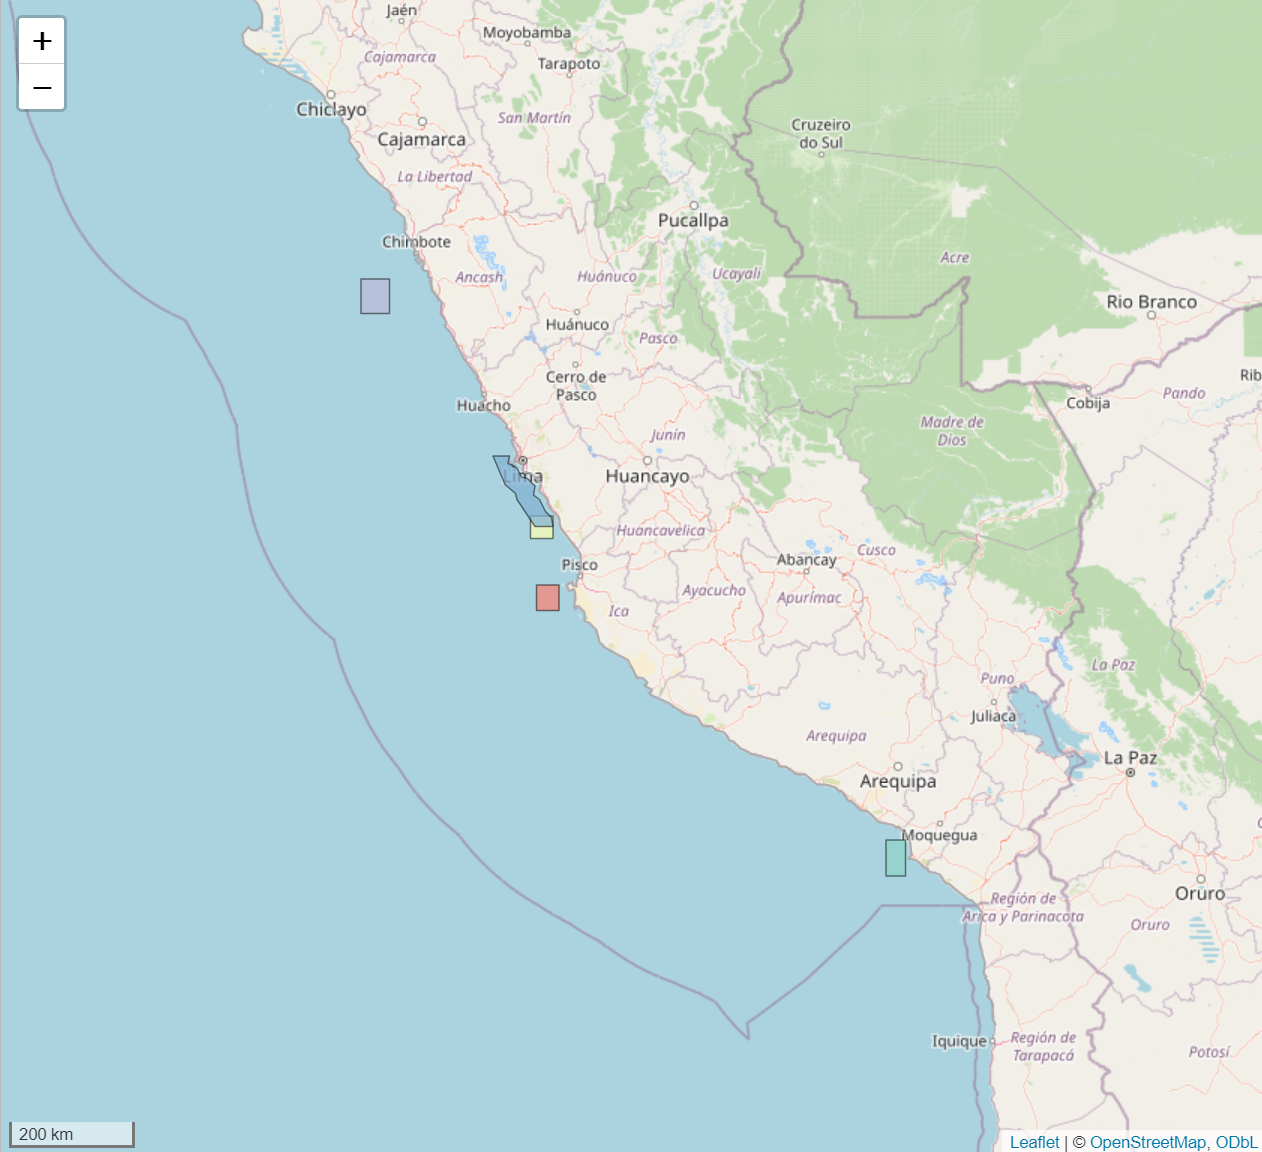
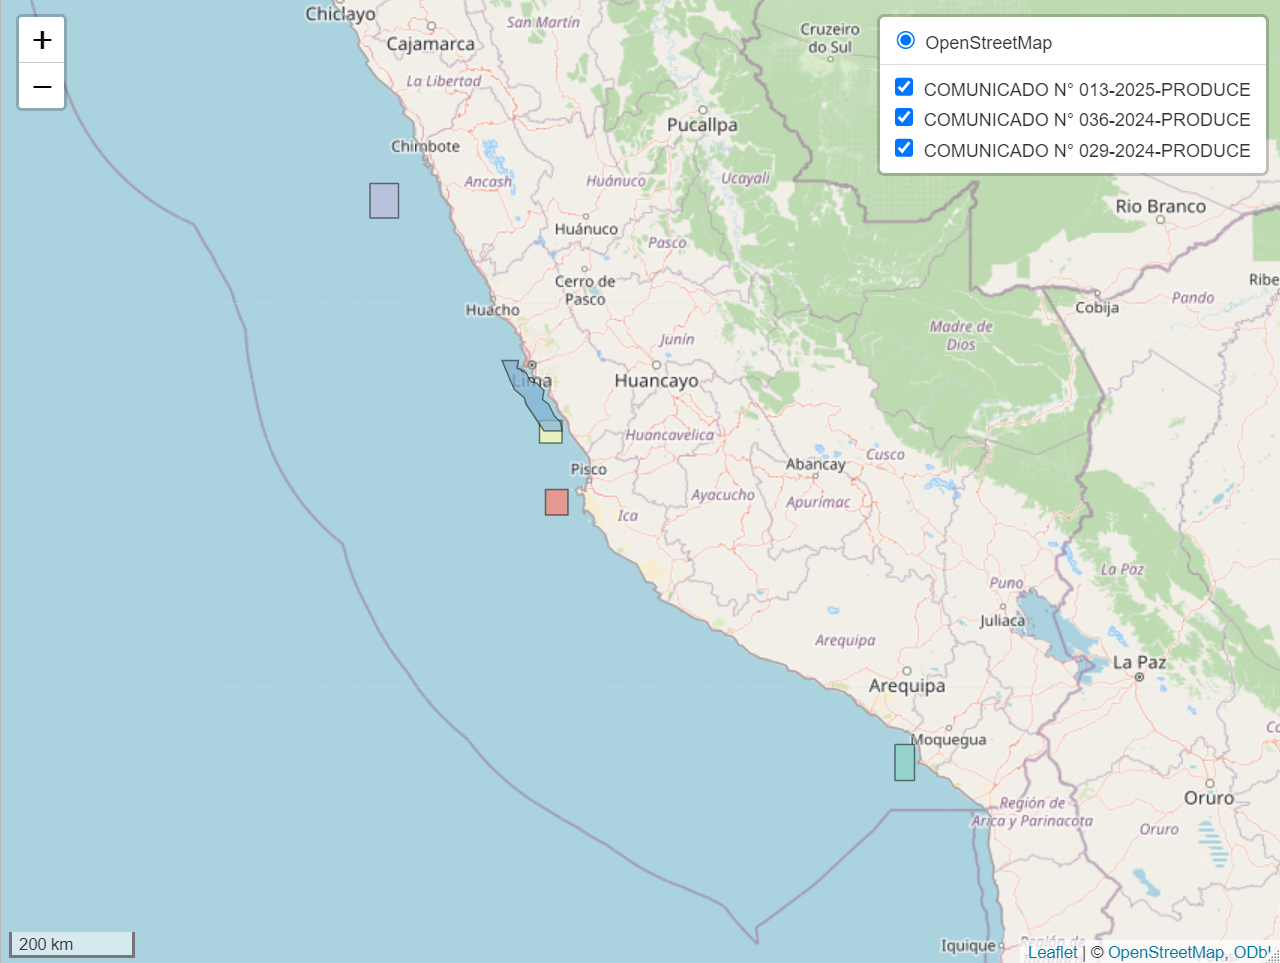
updating README

diff --git a/README.md b/README.md
@@ -138,14 +138,14 @@ resultados <- extrae_data_comunicados(vector_pdf_names = pdf_urls)
 resultados_formateados <- formatear_datos_comunicados(resultados)
 
 # Visualizar áreas cerradas con ggplot
-graficar_poligonos_ggplot(datos = resultados_formateados)
+graficar_poligonos_ggplot(datos = resultados_formateados, mostrar_leyenda = TRUE)
 ```
 
 ![Visualización de áreas cerradas con ggplot](man/figures/poligonos_ggplot.png)
 
 ```r
 # Visualización interactiva con leaflet
-mapa_interactivo <- graficar_poligonos_leaflet(datos = resultados_formateados)
+mapa_interactivo <- graficar_poligonos_leaflet(datos = resultados_formateados, mostrar_leyenda = TRUE)
 mapa_interactivo
 ```
 
